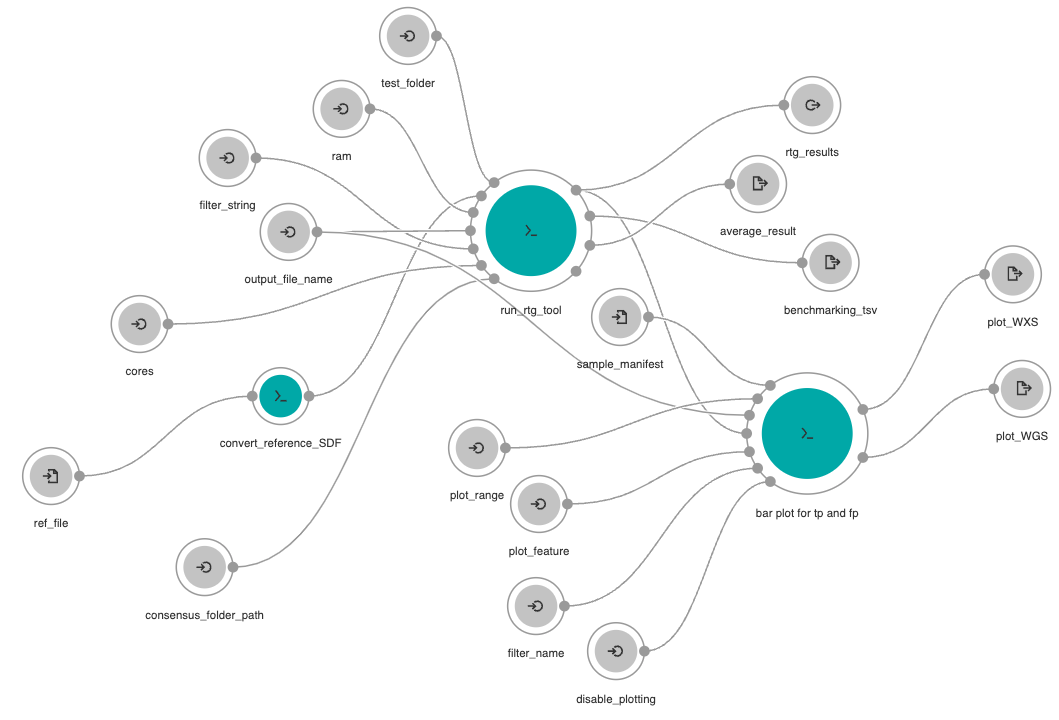
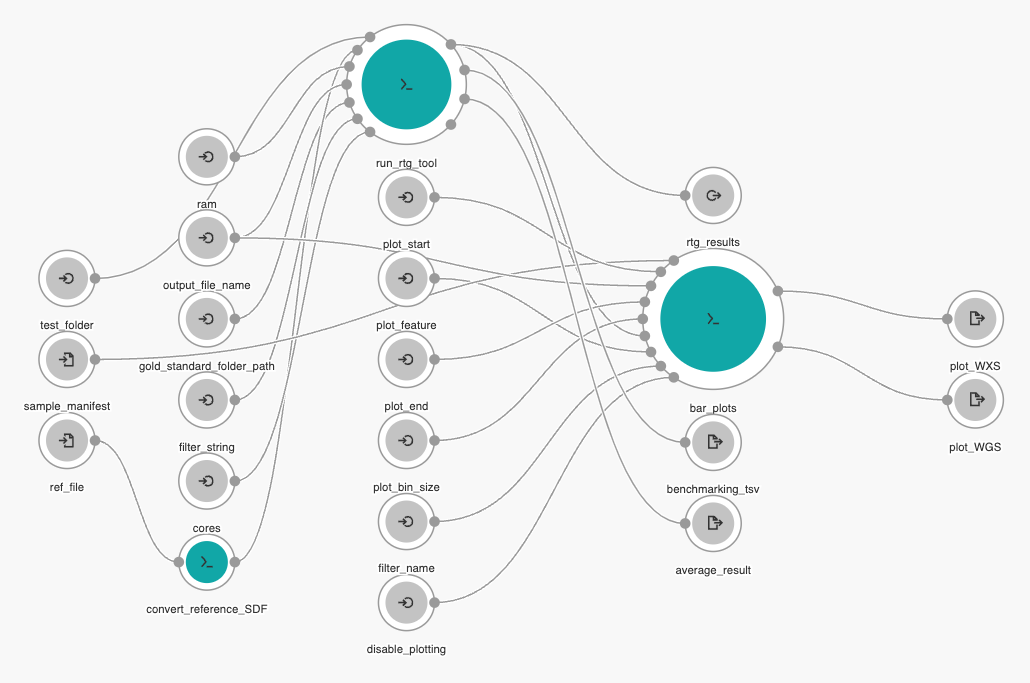
Design change based on PR feedback

diff --git a/scripts/plot_tp_fp.py b/scripts/plot_tp_fp.py
@@ -109,10 +109,15 @@ def main(args):
     filter = args.filter
     filter_name = args.filtername
     output_file_name = args.output_file_name
-    interval = list(map(float, args.interval_list))  # start end bin_size
+    start= args.plot_start
+    end= args.plot_end
+    bin_size= args.plot_bin_size
+
+    interval=[float(start), float(end), float(bin_size)]
+    
     if len(interval) != 3:
         raise Exception(
-            "Range list should have 3 numeric ( int or float) in the order: start, end and bin size. Start < End and bin << (End - Start)"
+            "Provide all the 3 numeric(int/float): start, end and bin size. Start < End and bin << (End - Start)"
         )
 
     manifest_sample = pd.read_csv(
@@ -159,7 +164,13 @@ if __name__ == "__main__":
     parser.add_argument("-o", "--output_file_name", help="provide output file name")
     parser.add_argument("-n", "--filtername", help="provide filter name")
     parser.add_argument(
-        "-l", "--interval_list", nargs="+", help="provide output file name"
+        "-s", "--plot_start", help="Start point for the plot"
+    )
+    parser.add_argument(
+        "-e", "--plot_end", help="End point for the plot"
+    )
+    parser.add_argument(
+        "-b", "--plot_bin_size", help="bin size for the plot"
     )
 
     # Read arguments from command line

diff --git a/README.md b/README.md
@@ -6,11 +6,11 @@ The D3b Bixu VCF Benchmarking Workflow uses RTG Tools and BCFtools to generate b
 
 The D3b Bixu VCF Benchmarking Workflow is composed of three Common Workflow Language (CWL) tools:
 
-- convert_reference_SDF: converts the contents of a FASTA file into the RTG Sequence Data File (SDF) format
+1. convert_reference_SDF: converts the contents of a FASTA file into the RTG Sequence Data File (SDF) format
 
-- run_rtg_tool: User have to provide all the target VCF files in a folder and all the gold standard files in another folder. This tool will create a manifest using target VCFs by pulling sample id from VCF header and will aim to look for corresponding gold standard VCFs. This tool can optionally filter target VCFs if a filter string is provided. Finally, RTG Tools computes the confusion matrix comparing the, optionally-filtered, target VCFs against their associated gold standard VCFs.
+2. run_rtg_tool: User have to provide all the target VCF files in a folder and all the gold standard files in another folder. This tool will create a manifest using target VCFs by pulling sample id from VCF header and will aim to look for corresponding gold standard VCFs. This tool can optionally filter target VCFs if a filter string is provided. Finally, RTG Tools computes the confusion matrix comparing the, optionally-filtered, target VCFs against their associated gold standard VCFs.
 
-- bar_plots: This tool takes rtg_results folder as input that contains `tp.vcf.gz` & `fp.vcf.gz` for all desired samples, plot feature (Example: `[%DP ]`) and a manifest for samples that informs this tool about experimental strategy. This tool will loop over all the sample folders and will pull TPs & FPs. Further, it will plot stack bar plots for Whole Genome Sequencing (WGS) and Whole Exome Sequencing (WXS) separately.
+3. bar_plots: This tool takes rtg_results folder as input that contains `tp.vcf.gz` & `fp.vcf.gz` for all desired samples, plot feature (Example: `[%DP ]`) and a manifest for samples that informs this tool about experimental strategy. This tool will loop over all the sample folders and will pull TPs & FPs. Further, it will plot stack bar plots for Whole Genome Sequencing (WGS) and Whole Exome Sequencing (WXS) separately.
 
  To provide flexibility and save cost for analysis, the plotting tool from above can also be run independently. That tool can be found [on CAVATICA](https://cavatica.sbgenomics.com/u/d3b-bixu/kf-tumor-only-wf-dev/apps/filter_plotting).
 
@@ -37,11 +37,13 @@ RTG Tool
   cores: provide cores to run samples in multiprocessing, default: 8
 
 Bar Plots
-  disable_plotting: "Set to true to disable plotting tool", default: True
-  plot_feature: provide bcftool format like filter_string example- %DP , default: '%DP'
-  sample_manifest: Provide sample with experimental strategy
-  plot_range: Provide start end and bin size in the same order Example- 0 200 10 for depth, default: ["0","200","10"] 
-  filter_name: provide filter name
+  disable_plotting: Set to true to disable plotting tool, default: True
+  plot_feature: bcftool format like filter_string example- %DP , default: '%DP'
+  sample_manifest: sample manifest with sample ID and their experimental strategy
+  plot_start: start point for the plot, default: '0'
+  plot_end: cut point for the plot,  default: '1'
+  plot_bin_size: bin size for the plot, default: '0.1'
+  filter_name: filter name as annotated in the VCF files
 ```
 
 ### Outputs
